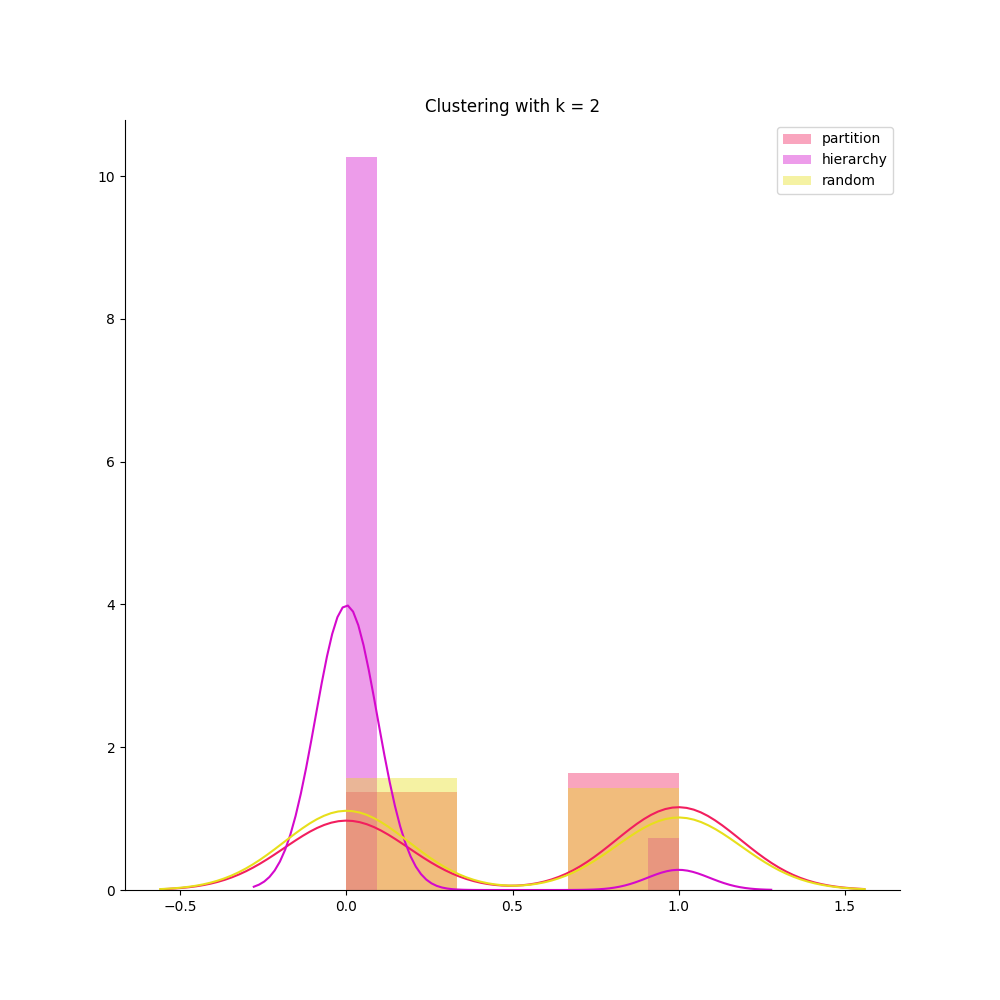
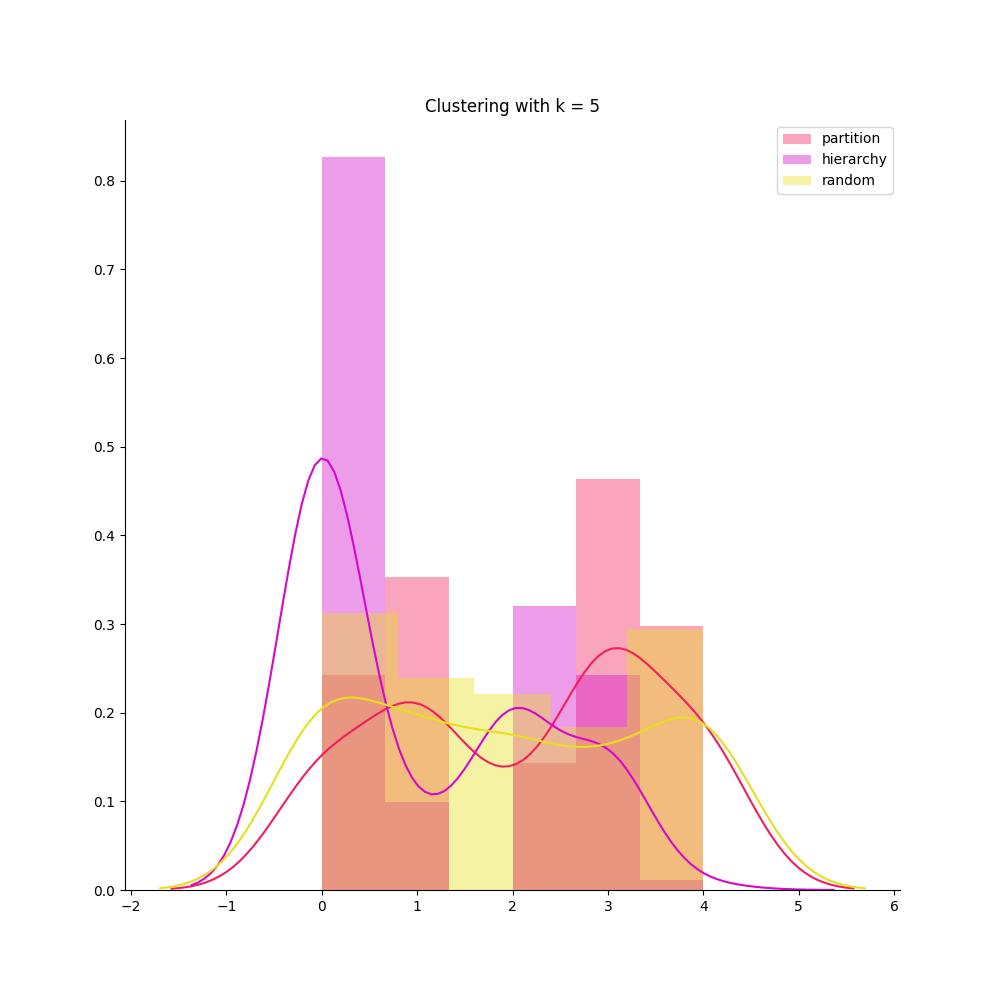
more commenting and formating on readme

diff --git a/hw2skeleton/similarity.py b/hw2skeleton/similarity.py
@@ -40,7 +40,6 @@ def run_similarity_evals(matrix_sites,k):
     plt.savefig(str(outfile),format='png')
     plt.close()
 
-
     # plotting
     # pca = decomposition.PCA(n_components=4)
     # pc = pca.fit_transform(matrix_sites)

diff --git a/hw2skeleton/__main__.py b/hw2skeleton/__main__.py
@@ -17,7 +17,7 @@ if len(sys.argv) < 4:
 active_sites = read_active_sites(sys.argv[2])
 
 # set number of clusters
-k = 3
+k = 5
 
 # transform the active sites
 df_sites = format_data(active_sites)

diff --git a/README.md b/README.md
@@ -1,19 +1,17 @@
 # HW2 Skeleton
 
 [![Build
-Status](https://travis-ci.org/ucsf-bmi-203/hw2-skeleton.svg?branch=master)](https://travis-ci.org/ucsf-bmi-203/hw2-skeleton)
+Status](https://travis-ci.org/sayloren/chive.svg?branch=master)](https://travis-ci.org/sayloren/chive)
 
-Skeleton for clustering project.
+[Travis Build Results](https://travis-ci.org/sayloren/chive)
 
-## assignment
+:see_no_evil: :hear_no_evil: :speak_no_evil:
 
-1. Implement a similarity metric
-2. Implement a clustering method based on a partitioning algorithm
-3. Implement a clustering method based on a hierarchical algorithm
-4. Answer the questions given in the homework assignment
+## UCSF BMI 203 Algorithms Homework 2018
 
+#### Clustering
 
-## structure
+## project file structure
 
 The main file that you will need to modify is `cluster.py` and the corresponding `test_cluster.py`. `utils.py` contains helpful classes that you can use to represent Active Sites. `io.py` contains some reading and writing files for interacting with PDB files and writing out cluster info.
 
@@ -59,6 +57,13 @@ python -m pytest
 
 from the root directory of this project.
 
+![a](/images/Cluster_hist.png)
+
+| Cluster | k | silhouette score| rand cluster | rand index |
+| ---------- |:----------:|:----------:|:----------:|:----------:|
+| Partitioning | 5 | 0.265 | Hierarchical | 0.373 |
+| Hierarchical | 5 | 0.407 | Random | 0.008 |
+| Random | 5 | -0.125 | partitioning | -0.001 |
 
 ## contributors
 
